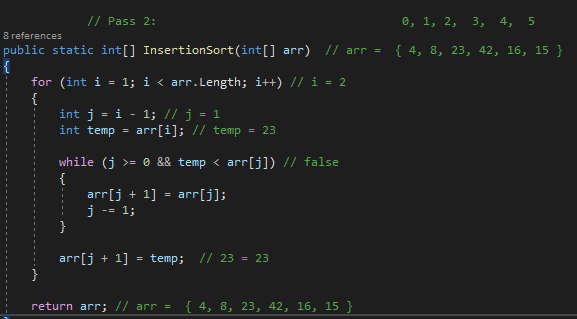
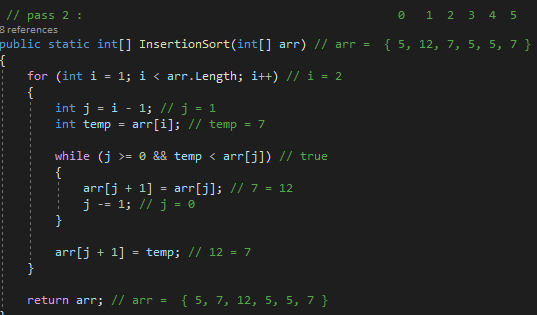
another EX in code 26

diff --git a/BLOG.md b/BLOG.md
@@ -18,40 +18,39 @@ InsertionSort(int[] arr)
 ```      
 
 ## Trace
-Pass 1 :
-arr  => [8,4,23,42,16,15]
+Pass 1 :[ 5, 12, 7, 5, 5, 7 ]
 
 ![](./img/pass1.png)
 
-In the first pass 8>4 => 8 is greater than 4 so swap 4 and 8 let 4 in the temp, then let the value of the second element in the first index, and finally let the second index = temp.
+In the first pass 5>12 => 5 is not greater than 12 so dont swap , we do not move the element 23 and the array stays in the same order.
 
 
 Pass 2 :
 
 ![](./img/pass2.png)
 
-In the second pass 23>8 => 23 is greater than 8 so Don't swap , we do not move the element 23 and the array stays in the same order.
+In the second pass 12>7 => 12 is greater than 7 so swap 7 and 12 in the temp, then let the value of the second element in the first index, and finally let the second index = temp.
 
 
 Pass 3 :
 
 ![](./img/pass3.png)
 
-In the third pass 42>23 => 42 is greater than 23 so Don't swap , we do not move the element 42 and the array stays in the same order.
+In the third pass 12>5 =>12 is greater than 5 so swap 5 and 12 in the temp, then let the value of the second element in the first index, and finally let the second index = temp.
 
 Pass 4 :
 
 ![](./img/pass4.png)
 
-In the fourth pass 16<42&23 => 16 is smaller than 42,23 so insert the element 16 into the previous position until 16>8
-
+In the fourth pass 12>5 =>12 is greater than 5 so swap 5 and 12 in the temp, then let the value of the second element in the first index, and finally let the second index = temp.
 
 Pass 5 :
 
 ![](./img/pass5.png)
 
 
-In the fifth pass 15<42&23&16 => 15 is smaller than 42,23,16 so insert the element 15 into the previous position until 15>8
+In the fifth pass 12>7 => 12 is greater than 7 so swap 7 and 12 in the temp, then let the value of the second element in the first index, and finally let the second index = temp.
+
 
 ## Efficiency
 | | Time | Space |
